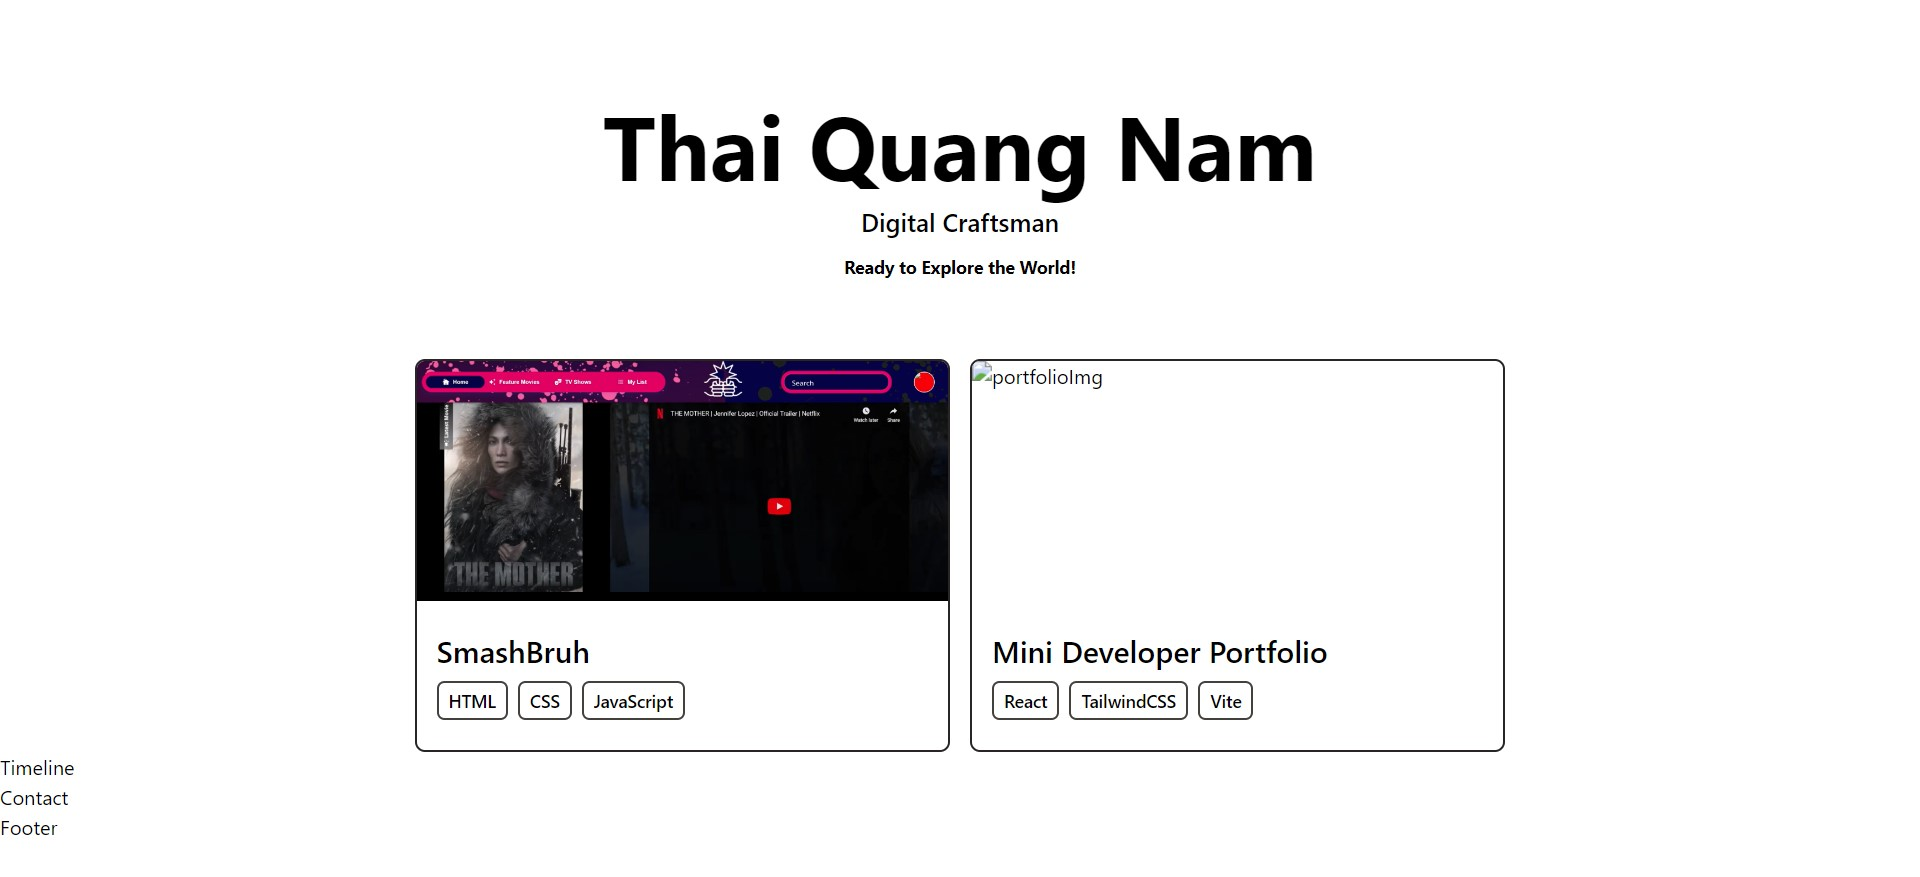
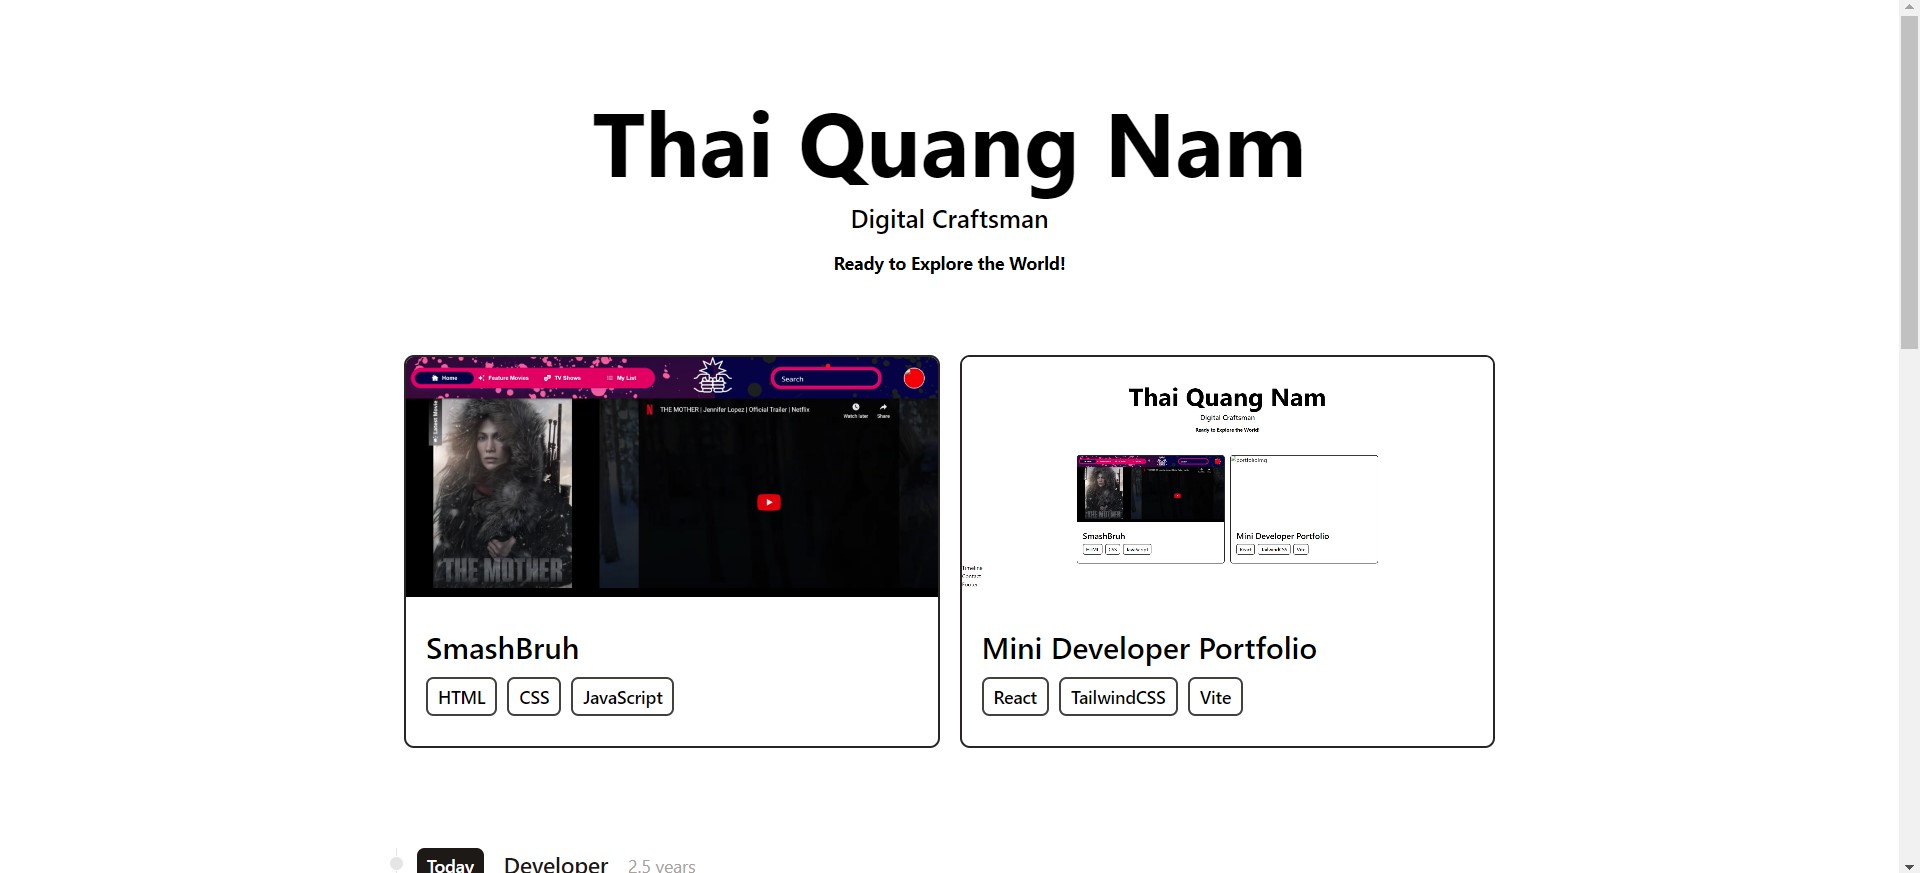
contact done, projects done

diff --git a/minimal-portfolio/src/data/timeline.js b/minimal-portfolio/src/data/timeline.js
@@ -1,0 +1,23 @@
+export default [
+  {
+    year: "Today",
+    title: "Developer",
+    duration: "2.5 years",
+    details:
+      "First line of code was written when I first came into university where I chose my bachelor degree as Computer Science. Hello World, sounds familiar, yes It does sound familiar to me too, but I now I feel more scared than familiar, in fact, I want to do something more creative instead of writing some lines of code and hoping it will work anytime soon.",
+  },
+  {
+    year: "Today",
+    title: "Gamer",
+    duration: "10 years",
+    details:
+      "Who doesn't play games when they are kids, huh? Maybe not all, but be honest with me here, everyone touches games in their life (Game of Life, get what I mean). Oh yeah, if you saw the amount of games that I have experienced, you will be shock of how many are there. League of Legends since 2015, CrossFire (Dot Kich), Dota2 (yes, I did touch a little), Offline Games like Just Cause, Far Cry, Assassin Creed, Grand Theft Auto, Mobile Games like Arena of Valor, Call of Duty: Mobile, you name it",
+  },
+  {
+    year: "2021",
+    title: "Blogger",
+    duration: "3 months",
+    details:
+      "Little blog from Summer 2021 - Covid Times in Vietnam and hell It was fun, writing something crazy, learning something new about sleeping, use free blogging site on the Internet, feel more confident in my little world of writing nonsense stuff",
+  },
+];

diff --git a/minimal-portfolio/src/components/TimelineItem.jsx b/minimal-portfolio/src/components/TimelineItem.jsx
@@ -1,12 +1,18 @@
 import React from 'react'
 
-function TimelineItem(year, title, duration, details) {
+function TimelineItem({year, title, duration, details}) {
   return (
     <ol className='flex flex-col md-flex-row relative border-l border-stone-200'>
         <li className='mb-10 ml-4'>
-            <div className='absolute w-3 h-3 bg-stone-200 rounded-full mt-1.5-left-1.5 border border-white'>
-                
-            </div>
+            <div className='absolute w-3 h-3 bg-stone-200 rounded-full mt-1.5 -left-1.5 border border-white' />
+            <p className='flex flex-wrap gap-4 flex-row items-center justify-start text-xs md:text-sm'>
+                <span className='inline-block px-2 py-1 font-semibold text-white bg-stone-900 rounded-md'>
+                    {year} 
+                </span>
+                <h3 className='text-lg font-semibold text-stone-900'>{title}</h3>
+                <div className='my-1 text-sm font-normal leading-none text-stone-400'>{duration}</div>
+                <p className='my-2 text-base font-normal text-stone-500'>{details}</p>
+            </p> 
         </li>
     </ol>
   )

diff --git a/minimal-portfolio/src/components/Contact.jsx b/minimal-portfolio/src/components/Contact.jsx
@@ -2,7 +2,20 @@ import React from 'react'
 
 function Contact() {
   return (
-    <div>Contact</div>
+    <div className='flex flex-col mb-10 mx-auto'>
+      <div className='flex justify-center items-center'>
+        <form 
+          action="https://getform.io/f/761759c6-3747-49d0-b764-f1721d5372ab"
+          className='flex flex-col w-full md:w-7/12'
+          method='POST'
+        >  
+          <input type="text" name='name' placeholder='Name' className='p-2 border-2 roudned-md bg-transparent focus: outline-none'/>
+          <input type="text" name='email' placeholder='Email' className='p-2 my-2 border-2 roudned-md bg-transparent focus: outline-none'/>
+          <textarea name="message" placeholder="Message" rows="10" className='p-2 my-2 border-2 roudned-md bg-transparent focus: outline-none'/>
+          <button className='p-2 bg-gray-800 text-white cursor-pointer font-semibold border-2 rounded-md hover:bg-black'>Message Me</button>
+        </form>
+      </div>
+    </div>
   )
 }
 

diff --git a/minimal-portfolio/src/components/Timeline.jsx b/minimal-portfolio/src/components/Timeline.jsx
@@ -1,8 +1,21 @@
-import React from 'react'
+import React from 'react';
+import TimelineItem from './TimelineItem';
+import timeline from '../data/timeline';
 
 function Timeline() {
   return (
-    <div>Timeline</div>
+    <div className='flex flex-wrap md:flex-row justify-center my-20'>
+      <div className='w-full md:w-7/12'>
+        {timeline.map(item => (
+          <TimelineItem
+            year={item.year}
+            title={item.title}
+            duration={item.duration}
+            details={item.details}
+          />
+        ))}
+      </div>
+    </div>
   )
 }
 

diff --git a/minimal-portfolio/src/App.jsx b/minimal-portfolio/src/App.jsx
@@ -3,7 +3,6 @@ import Intro from './components/Intro';
 import Portfolio from './components/Portfolio';
 import Contact from './components/Contact';
 import Timeline from './components/Timeline';
-import Footer from './components/Footer';
 
 function App() {
 
@@ -13,7 +12,6 @@ function App() {
       <Portfolio />
       <Timeline />
       <Contact />
-      <Footer />
     </div>
   )
 }
